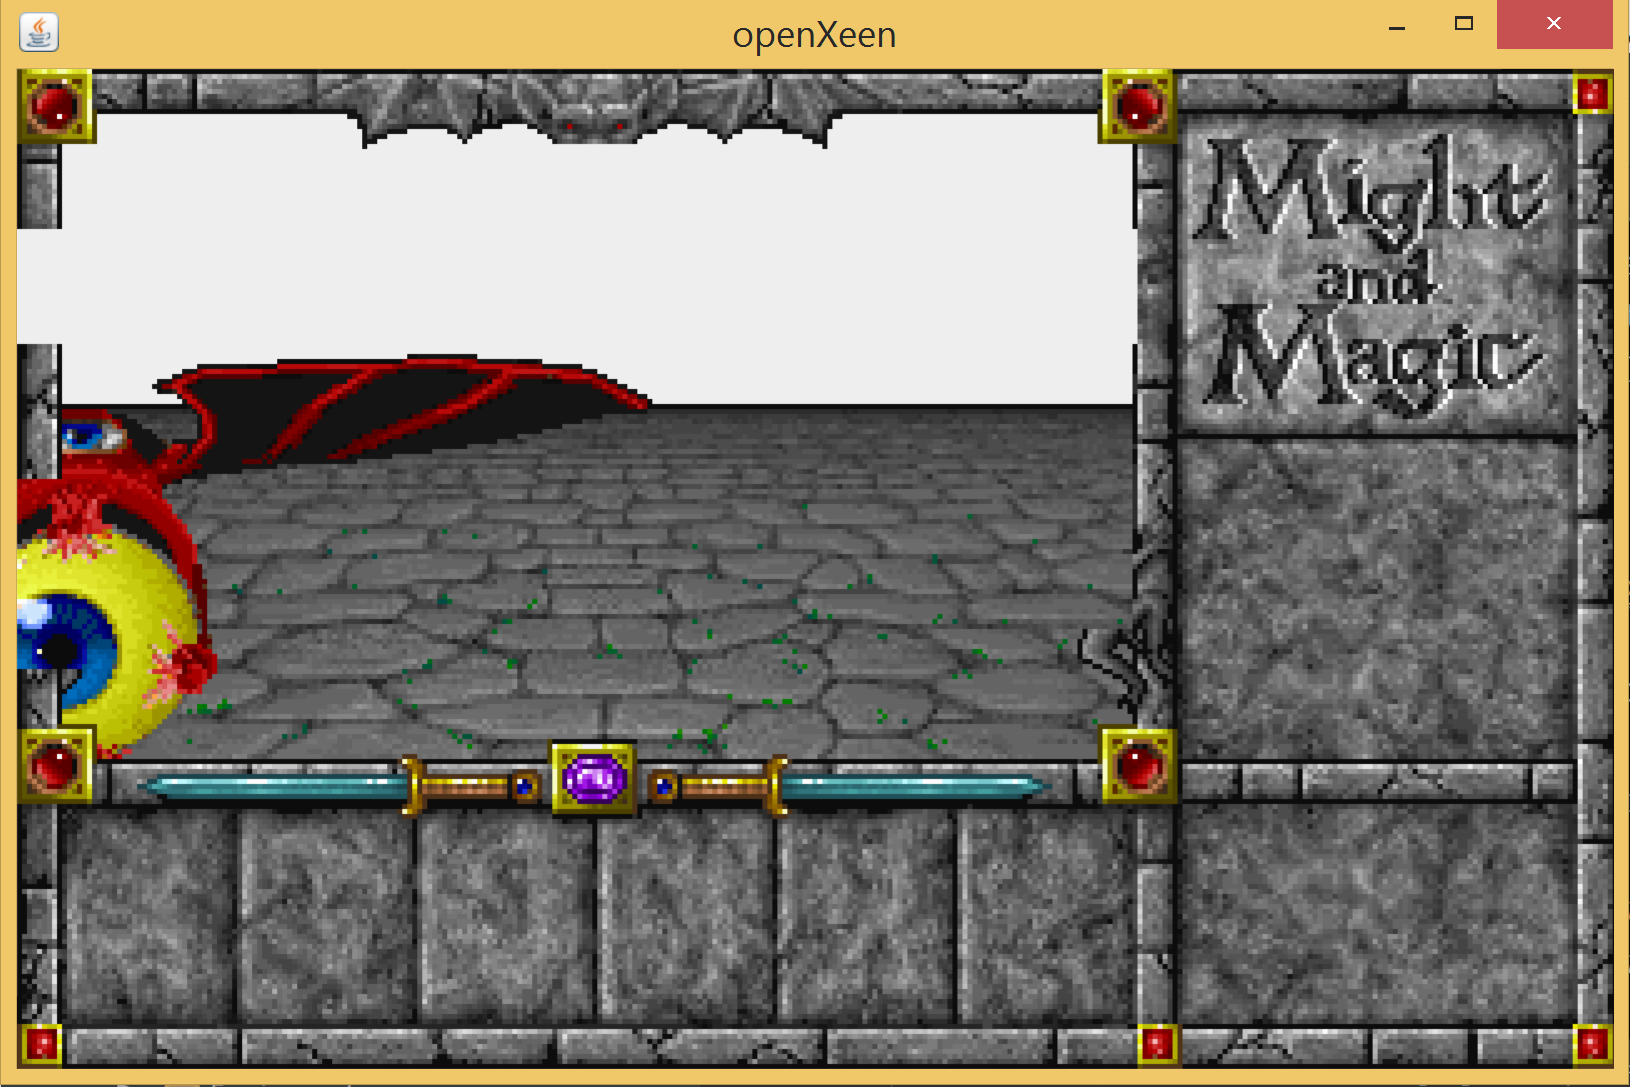
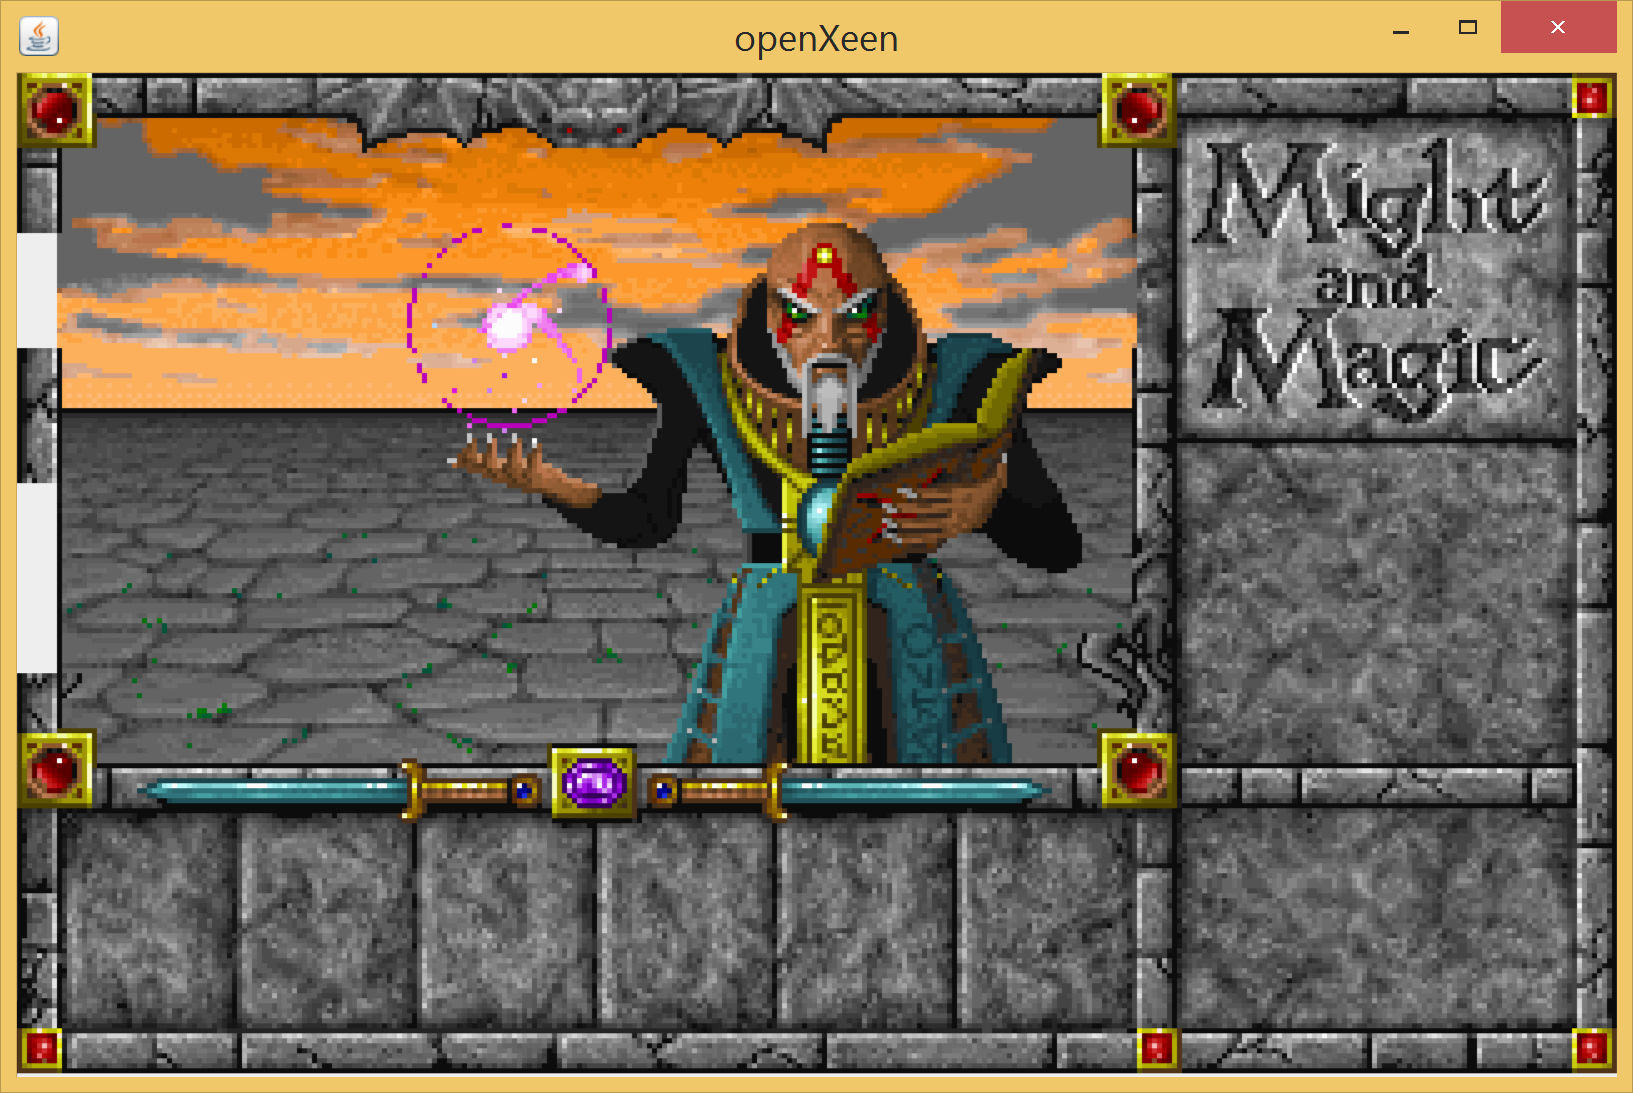
Setup sky render.

diff --git a/src/Rendering/MaM3dScenePos.java b/src/Rendering/MaM3dScenePos.java
@@ -5,8 +5,8 @@ package Rendering;
  */
 public enum MaM3dScenePos
 {
-    TopHalfOfsky (0x0000, 0, 8, 8, 0, 0x0000),
-    BottomHalfOfsky (0x0000, 1, 8, 25, 0, 0x0000),
+    TopHalfOfsky (0x0000, 0, 8, 8, 0, 0x0000, 0),
+    BottomHalfOfsky (0x0000, 1, 8, 25, 0, 0x0000, 0),
     Ground (0x0000, 0, 8, 67, 0, 0x0000, 1),
     SurfaceTile4StepsForward3Left (0x0000, 0, 8, 67, 0, 0x0000),
     SurfaceTile4StepsForward2Left (0x0000, 0, 38, 67, 0, 0x0000),
@@ -132,7 +132,10 @@ public enum MaM3dScenePos
 0xFFFF, 0, 110, 73, 0, 0x0000),
 0xFFFF, 0, 110, 73, 0, 0x0000),*/
     
-    ProjecTileWeaponSprite1StepsForward (0xFFFF, 0, 72, 43, 0, 0x8000);
+    ProjecTileWeaponSprite1StepsForward (0xFFFF, 0, 72, 43, 0, 0x8000),
+    MonsterCurrentMiddle(0x0000, 1, 32, 24, 0, 0x0000);
+
+
 //    ProjecTileWeaponSprite1StepsForward (0xFFFF, 0, 72, 43, 0, 0x0000),
 //    ProjecTileWeaponSprite1StepsForward (0xFFFF, 0, 93, 48, 0, 0x0000),
 //    ProjecTileWeaponSprite1StepsForward (0xFFFF, 0, 51, 48, 0, 0x8000),
@@ -151,7 +154,8 @@ public enum MaM3dScenePos
     int flags;
     int renderDepth;
 
-    MaM3dScenePos(int defaultSprite, int frame, int xPos, int yPos, double scale, int flags, int renderDepth) {
+    MaM3dScenePos(int defaultSprite, int frame, int xPos, int yPos,
+                  double scale, int flags, int renderDepth) {
         this.defaultSprite = defaultSprite;
         this.frame = frame;
         this.xPos = xPos;
@@ -161,7 +165,8 @@ public enum MaM3dScenePos
         this.renderDepth = renderDepth;
     }
 
-    MaM3dScenePos(int defaultSprite, int frame, int xPos, int yPos, double scale, int flags)
+    MaM3dScenePos(int defaultSprite, int frame, int xPos, int yPos,
+                  double scale, int flags)
     {
         //this(defaultSprite, frame, xPos, yPos, 1.0/scale, flags, 5);
         this(defaultSprite, frame, xPos, yPos, 1.0, flags, 5);

diff --git a/src/Rendering/MaM3DSceneComposition.java b/src/Rendering/MaM3DSceneComposition.java
@@ -57,7 +57,11 @@ public class MaM3DSceneComposition implements ISceneComposition {
 
     public synchronized void setSky(MaMSprite sky)
     {
-        addRenderable(MaM3dScenePos.TopHalfOfsky.getRenderablePosition(), sky);
+        IRenderableGameObject skyTop = IRenderableGameObject.fromImage(sky.getRenderedFrames()[0]);
+        IRenderableGameObject skyBottom = IRenderableGameObject.fromImage(sky.getRenderedFrames()[1]);
+
+        addRenderable(MaM3dScenePos.TopHalfOfsky.getRenderablePosition(), skyTop);
+        addRenderable(MaM3dScenePos.BottomHalfOfsky.getRenderablePosition(), skyBottom);
     }
 
     public synchronized void addSurface(Point relativePos, MaMSurface surface)
@@ -67,7 +71,7 @@ public class MaM3DSceneComposition implements ISceneComposition {
 
     public synchronized void addMonster(Point relativePos, MaMMonster monster)
     {
-        addRenderable(MaM3dScenePos.Monsters2StepsForward.getRenderablePosition(), monster.getAttackAnimation());
+        addRenderable(MaM3dScenePos.MonsterCurrentMiddle.getRenderablePosition(), monster.getAttackAnimation());
     }
 
 

diff --git a/src/Game/MaMGame.java b/src/Game/MaMGame.java
@@ -60,6 +60,8 @@ public class MaMGame implements IMaMGame
     protected void loadWorld(CCFileReader ccFile) throws CCFileFormatException
     {
         world = new WoXWorld(this, ccFile);
+        world.loadMaps();
+        world.setCurrentMap(1);
     }
 
     public void doAction(MaMActions action)
@@ -166,7 +168,12 @@ public class MaMGame implements IMaMGame
         {
             MaMMonster mon = world.getMonsters()[testMonsterID%world.getMonsters().length];
             view.addMonster(new Point(100,0), mon);
+
+            //TODO: file caching is non existant...
             view.setGround(world.getCcFile().getSprite("CAVE.GND"));
+            view.setSky(world.getCcFile().getSprite("SKY.SKY"));
+
+
         } catch (CCFileFormatException e) {
             e.printStackTrace();
         }

diff --git a/src/mamFiles/CCFileReader.java b/src/mamFiles/CCFileReader.java
@@ -134,8 +134,19 @@ public abstract class CCFileReader extends MAMFile implements AutoCloseable
             {
                 case "MON":
                 case "ATT":
+                case "EG2":
+                case "END":
+                case "INT":
+                case "TWN":
+                case "SWL":
+                case "PIC":
+                case "OBJ":
+                case "ICN":
+                case "FWL":
+                case "FAC":
                     return getSprite(id);
                 case "GND":
+                case "SKY":
                     return getSprite(id);
                 case "PAL":
                     return getPallet(id);

diff --git a/src/mamFiles/WOX/CCFileReaderWOX.java b/src/mamFiles/WOX/CCFileReaderWOX.java
@@ -260,6 +260,7 @@ public class CCFileReaderWOX extends CCFileReader
 
     @Override
     public MaMPallet getPalletForFile(int id) throws CCFileFormatException {
+        //ignoring id for now, so far this pallet works for all sprites
         try
         {
             return getPallet(variant.getDefaultPallate());
@@ -268,8 +269,6 @@ public class CCFileReaderWOX extends CCFileReader
         {
             return getPallet("MM4.PAL");
         }
-        //ignoring id for now, so far this pallet works for all sprites
-        //return getPallet("MM4.PAL");
     }
 
     public WoXCCVariant getVariant() {

diff --git a/src/Game/Map/MaMWorld.java b/src/Game/Map/MaMWorld.java
@@ -63,6 +63,8 @@ public abstract class MaMWorld implements AutoCloseable
         return worldName;
     }
 
+    public abstract void loadMaps() throws CCFileFormatException;
+
     public Map<Integer, MaMMazeFile> getMazeFiles() {
         return MazeFiles;
     }
@@ -102,5 +104,10 @@ public abstract class MaMWorld implements AutoCloseable
     public void close() throws Exception {
         this.ccFile.close();
         this.ccFileAnimations.close();
+    }
+
+    public void setCurrentMap(int mapID)
+    {
+        this.currentMaze = getMazeFiles().get(mapID);
     }
 }

diff --git a/src/Rendering/SimpleCanvas/GraphicsRenderer.java b/src/Rendering/SimpleCanvas/GraphicsRenderer.java
@@ -43,6 +43,12 @@ public class GraphicsRenderer implements IMaMRenderer<Graphics>
             renderView(g, timeMS, hudView);
         }
 
+        MaM2DMapComposition mapView = this.game.renderMap(0,0,16,16);
+        if(mapView != null)
+        {
+            renderView(g, timeMS, mapView);
+        }
+
     }
 
     private void renderView(Graphics g, long timeMS, ISceneComposition view) {

diff --git a/src/Game/Map/WoXWorld.java b/src/Game/Map/WoXWorld.java
@@ -74,7 +74,8 @@ public class WoXWorld extends MaMWorld
         return scene;
     }
 
-    void loadMaps() throws CCFileFormatException
+    @Override
+    public void loadMaps() throws CCFileFormatException
     //ref Dictionary<int, string> mapNameLut, ref Dictionary<string, int> mapIDLut)
     {
         int missCount=0;
